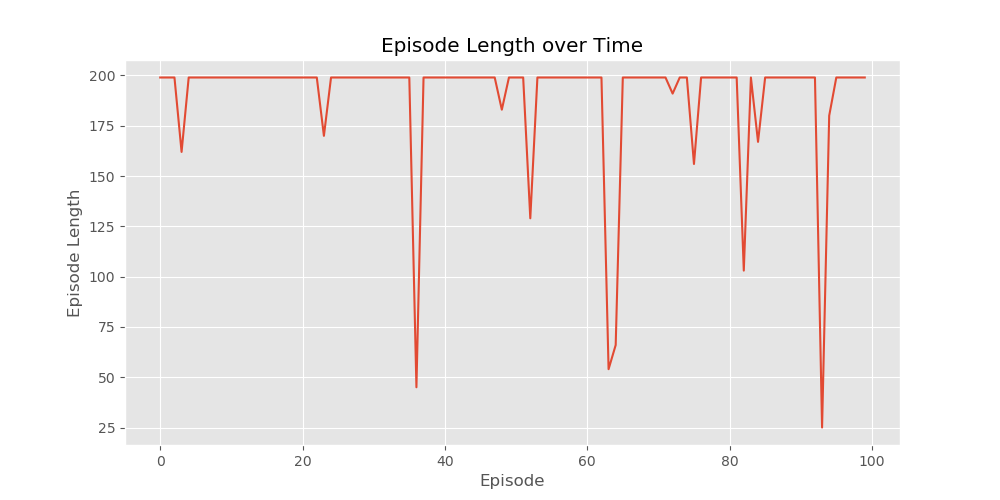
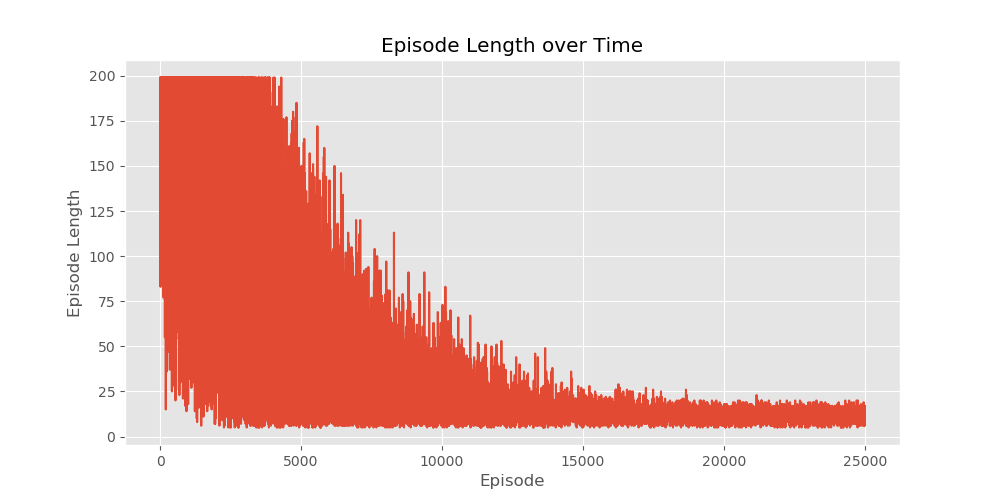
Finish and test data saver

diff --git a/scripts/taxi_example/taxi_q_learning.py b/scripts/taxi_example/taxi_q_learning.py
@@ -20,7 +20,7 @@ class TaxiQAgent():
         self.Q = np.zeros((self.state_space, self.action_space))
 
         # Define hyperparameters
-        self.total_episodes = 100#25000        # Total number of training episodes
+        self.total_episodes = 25000        # Total number of training episodes
         self.total_test_episodes = 100     # Total number of test episodes
         self.max_steps = 200               # Max steps per episode
 
@@ -69,7 +69,7 @@ class TaxiQAgent():
                                             np.max(self.Q[new_state]) - self.Q[state][action])
 
                 # Save stats
-                print(self.data_saver.stats.episode_rewards)
+                # print(self.data_saver.stats.episode_rewards)
                 self.data_saver.stats.episode_rewards[episode] += reward
                 self.data_saver.stats.episode_lengths[episode] = step
 
@@ -84,9 +84,26 @@ class TaxiQAgent():
         print("Finished Training!")
         self.data_saver.plot_and_save_stats()
 
+    def test(self):
+        self.env = gym.wrappers.Monitor(self.env, self.data_saver.save_dir, force=True)
+        t = 0
+        done = False
+        current_state = self.env.reset()
+
+        while not done:
+            self.env.render()
+            t = t+1
+            action = self.epsilon_greedy_policy(current_state)
+            new_state, reward, done, _ = self.env.step(action)
+            current_state = new_state
+        return t
+
 
 if __name__ == "__main__":
     taxi_q_agent = TaxiQAgent()
     taxi_q_agent.env.render()
 
     taxi_q_agent.train()
+    taxi_q_agent.test()
+
+    taxi_q_agent.env.close()

diff --git a/scripts/taxi_example/data_saver.py b/scripts/taxi_example/data_saver.py
@@ -74,6 +74,7 @@ class DataSaver():
         fig2.savefig(self.save_dir + "/reward_over_time")
         fig3.savefig(self.save_dir + "/episode_per_timestep")
 
+
 if __name__ == "__main__":
     ds = DataSaver("testing", 10)
 #
